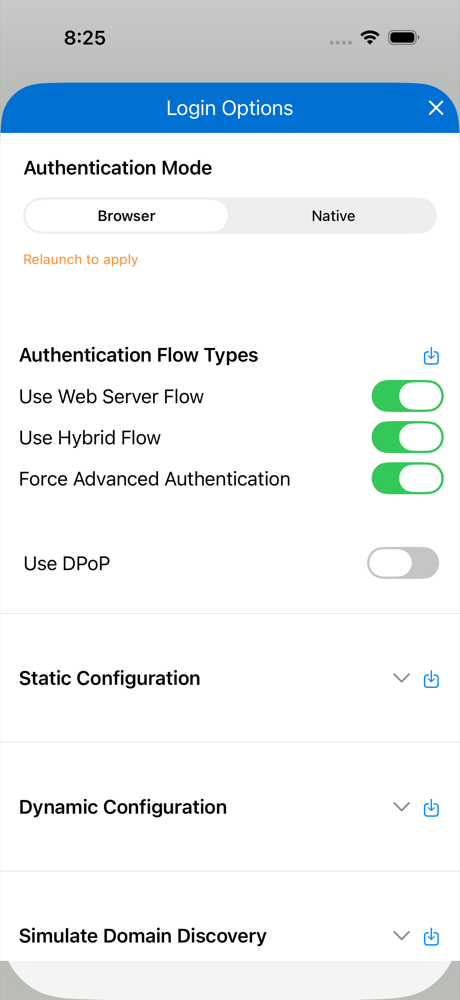
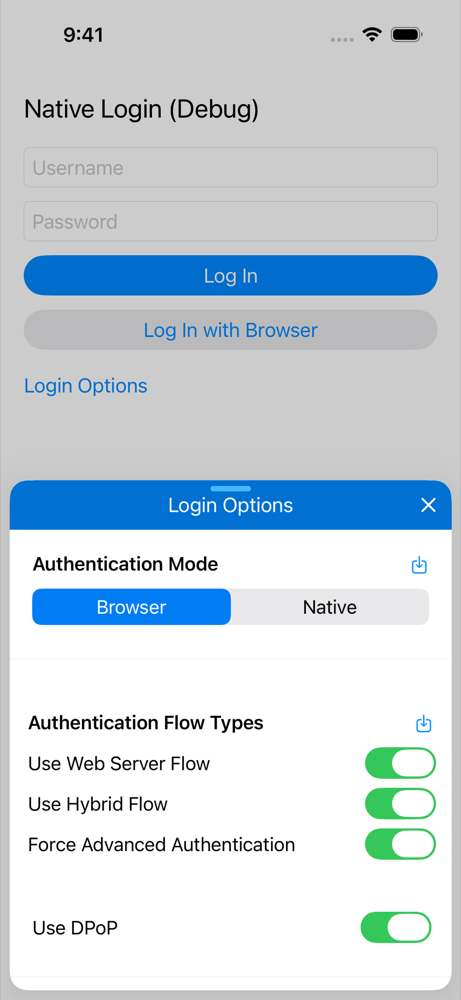
@W-24600763: Document the debug Native Login mode
docs/auth token lifecycle section, AuthFlowTester README and screenshots, and a RestAPIExplorer README explaining how to try Native Login from Login Options.

diff --git a/native/SampleApps/AuthFlowTester/README.md b/native/SampleApps/AuthFlowTester/README.md
@@ -268,8 +268,8 @@ helper.
 | `test_givenCommunityNoDPoP_whenLoginViaInAppWebView_thenTokenTypeIsBearer` | Bearer token via the in-app WebView auth surface |
 
 #### NativeLoginTests
-Covers Native Login (`NativeLoginManager`) against the community login host, with the app's own
-SwiftUI native form (username, password, Cancel, Login Options and "Use Browser" fallback). Two
+Covers Native Login (`NativeLoginManager`) against the community login host, with the SDK's debug
+Native Login form (username, password, Cancel, Login Options and "Log In with Browser" fallback). Two
 headless ECAs are used: `eca_jwt_headless` accepts but does not require DPoP, and
 `eca_jwt_dpop_headless` requires it (`/authorize` without `dpop_jkt` is rejected with HTTP 400
 `invalid_request`). The four-case matrix has explicit expectations, independent of the ECA name:
@@ -285,33 +285,35 @@ Successful sessions are checked for the `NL`, `A5` and `L5` feature markers (plu
 DPoP is on, and no `B` markers), then a REST call, a revoke/refresh cycle, a cold restart and another
 refresh.
 
-Native Login cannot be turned off inside a running process, so the authentication mode is chosen per
-launch. Tests launch with `--authenticationMode=native`; a user switches mode with the
-Authentication Mode picker at the top of the SDK's Login Options screen (debug builds only; reached
-from the web login screen, the developer menu, or the Login Options button on the native form) and
-relaunches. AuthFlowTester injects the picker and the Native Login client settings (Client ID,
-Native Callback URL, Community Login URL, hybrid, DPoP) through `LoginOptionsViewController.customization`;
-in Native mode the SDK's browser-only sections are hidden. Settings take effect on Apply; tests fill
-them with the JSON import button.
+Native Login is an SDK debug feature, not AuthFlowTester code: the **Authentication Mode** picker
+(Browser / Native) at the top of the SDK's Login Options screen (debug builds with developer support;
+reached from the web login screen, the developer menu, or the Login Options button on the native
+form) selects it, with its own client settings (Client ID, Native Callback URL, Community Login URL,
+Use DPoP, Use Hybrid). In Native mode the browser-only sections are hidden. Settings are saved as
+edited, apart from the browser configuration, and closing Login Options restarts authentication.
+They are kept in `SalesforceManager.shared.debugLoginSettings`. Tests launch with
+`--nativeLoginConfig=<json>` and change apps or DPoP mid-run with the JSON import button.
 
 | Test | Notes |
 |------|-------|
 | `testNativeLoginConfigIsValid` | The `nativeLogin` entry resolves (host, user, both apps, keys, HTTPS redirect URIs). Fails, never skips, when the entry is malformed |
 | `test_givenOptionalEca_whenDPoPOff_thenBearer` | Matrix case 1 |
 | `test_givenOptionalEca_whenDPoPOn_thenDPoP` | Matrix case 2 |
-| `test_givenRequiredEca_whenDPoPOff_thenRejectedNoAccount` | Matrix case 3; failure result and redacted diagnostics on the form; main page never loads |
+| `test_givenRequiredEca_whenDPoPOff_thenRejectedNoAccount` | Matrix case 3; HTTP 400 `invalid_request` naming the missing `dpop_jkt` (not `invalid_grant`) on the form, redacted diagnostics, main page never loads |
 | `test_givenRequiredEca_whenDPoPOn_thenDPoP` | Matrix case 4 |
 | `test_givenRejection_whenRetryWithDPoP_thenSucceeds` | After a rejection, turning DPoP on and retrying succeeds |
 | `test_givenLoggedInUser_whenCancelAddUserForm_thenStaysLoggedIn` | Cancel is offered with an existing account and returns to it |
 | `test_givenNoUser_whenNativeFormShown_thenNoCancelButton` | No Cancel without an account |
-| `test_givenNativeForm_whenBrowserFallback_thenWebLoginShown` | "Use Browser" hands off to web authentication |
+| `test_givenNativeForm_whenBrowserFallback_thenWebLoginShown` | "Log In with Browser" hands off to web authentication |
 | `test_givenSameUser_whenDPoPThenBearerReauth_thenBearerWithoutDPoPMarker` | Same user, DPoP login, logout, Bearer login: no `DP` carry-over, also after a restart |
 | `test_givenNativeForm_whenBackgroundedAndReactivated_thenLoginStillWorks` | Home and reactivate mid-form |
 | `test_givenFailedLogin_whenDiagnosticsShown_thenRedacted` | Diagnostics name the authorize stage and contain no tokens, nonces, codes or passwords |
 
-The form shows redacted diagnostics (stage, whether a DPoP proof was sent, nonce challenges, retries
-and HTTP status). `NativeLoginResult` carries no HTTP status, so this is the only rejection detail
-available; the diagnostics are produced by an app-side `SFNetwork` metrics observer.
+The form shows redacted diagnostics for each authorize/token attempt (stage, HTTP status, OAuth error
+and description, whether a DPoP proof was sent, nonce challenges and retries), recorded by the SDK's
+internal `NativeLoginDiagnostics` in debug builds. `NativeLoginResult` carries no HTTP status, so the
+failure detail adds the last failed attempt, for example
+`unknownError (HTTP 400 invalid_request: ...dpop_jkt...)`.
 
 Requires a `nativeLogin` entry in `ui_test_config.json` (see Configuration below); skips cleanly
 via `XCTSkip` when the entry is absent.
@@ -334,7 +336,8 @@ Tests can pass extra launch arguments through `extraLaunchArguments` (or `restar
 
 | Argument | Effect |
 |----------|--------|
-| `--authenticationMode=native\|browser` | Debug/UI-test-only. Selects the authentication mode for this launch; without it the mode saved from Login Options is used. `native` registers the app's native login form for each scene before login starts. Used by `NativeLoginTests`. |
+| `--nativeLoginConfig=<json>` | Debug-only. Applies a Native Login configuration to `SalesforceManager.shared.debugLoginSettings` after the UI-test reset, with the JSON keys shared with Android and the Login Options import: `authenticationMode` (`native` or `browser`), `consumerKey`, `redirectUri`, `communityUrl`, `useDPoP`, `useHybridFlow`. Absent keys keep their saved value; an invalid configuration is logged and ignored. Used by `NativeLoginTests`. |
+| `--authenticationMode=native\|browser` | Debug-only. Selects the authentication mode (applied after `--nativeLoginConfig`); `native` needs a complete saved configuration. Without either argument the settings saved from Login Options are used. |
 | `--captureTokenRequestUserAgent` | Debug/UI-test-only `SFNetwork` metrics observer. The app records the User-Agent and URL (scheme, host, path) of the last `/services/oauth2/token` request and shows them as `Last Token Request User Agent` and `Last Token Request URL`. Used by `RTRLoginTests` and `CommunityLoginTests`. |
 
 ### Identity request diagnostics (`IDENTITY_ATTEMPTS`)

diff --git a/docs/auth/token-lifecycle.md b/docs/auth/token-lifecycle.md
@@ -88,6 +88,37 @@ web flow. It transfers no native identifier, keypair, nonce or proof. The existi
 flow determines its own DPoP state; cancellation can return to a fresh Native Login. The
 normal account-completion path records token type and feature markers for native sessions too.
 
+### 1.3 Debug Native Login mode
+
+Debug builds can switch any app without its own Native Login to Native Login from the developer
+support **Login Options** screen (**Authentication Mode**: Browser / Native). The choice and its
+External Client App (consumer key, HTTPS callback URL, community URL with path, DPoP, hybrid)
+persist in `SalesforceManager.debugLoginSettings` (`NativeLoginDebugSettings`, its own
+`UserDefaults` suite), apart from the boot config and the global `usesDPoP` /
+`useHybridAuthentication` flags. They are inert unless `isDevSupportEnabled` is true and the app
+did not call `useNativeLogin` (`appRegisteredNativeLogin`). `apply(json:)` takes the same JSON keys
+as Android; `resetForUITesting` clears them.
+
+- **Routing.** `applyDebugNativeLoginSettings` runs at the end of `initializeSDK` and before each
+  auth request is built (`authenticateWithCompletion:` and Login Options restarts). In Native mode
+  with a complete configuration it registers `SFSDKDebugNativeLoginViewController` and a
+  `NativeLoginManagerInternal` for the debug config, so the regular native routing
+  (`nativeLoginEnabled`) presents the SDK's debug form; otherwise it unregisters them. Running at
+  `initializeSDK` keeps the `NL` marker of a restored native session, like an app calling
+  `useNativeLogin` at launch.
+- **DPoP and hybrid.** The native auth request carries the debug `useDPoP` choice as its
+  `useDPoP` override (see 1.1), and the manager's `useHybridAuthenticationOverride` selects the
+  token grant. The browser values are untouched.
+- **Restart.** Closing Login Options rebuilds the scene's request through
+  `authRequestAfterLoginOptionsChangeForSession:`, native or browser per the new settings. A
+  browser request built after a native one uses the selected login host, not the community URL.
+- **Fallback.** **Log In with Browser** calls `fallbackToWebAuthentication()`; the browser login
+  uses the boot config and browser options.
+- **Diagnostics.** In debug builds `sendAuthenticationRequest` records each authorize/token
+  attempt in the internal `NativeLoginDiagnostics` (`native-login` log category): stage, HTTP
+  status, OAuth error and truncated description, whether a proof was sent and a nonce received,
+  and the retry count. Nonce values, proofs, codes, verifiers, tokens and passwords are never kept.
+
 ---
 
 ## 2. Token Refresh

diff --git a/native/SampleApps/RestAPIExplorer/README.md b/native/SampleApps/RestAPIExplorer/README.md
@@ -1,0 +1,15 @@
+# RestAPIExplorer
+
+A native iOS sample app for the Salesforce Mobile SDK that lets you build and send Salesforce REST API requests and inspect the responses.
+
+## Trying Native Login
+
+RestAPIExplorer does not register a native login of its own. In debug builds (where `isDevSupportEnabled` is on), you can still try Native Login through the SDK's debug Login Options:
+
+1. On the login screen, open **Login Options** from the menu (also available in the Dev Support menu).
+2. Under **Authentication Mode**, select **Native**.
+3. Enter the **Client ID**, **Native Callback URL** and **Community Login URL** of an External Client App that has Native Login (headless username-password flow) enabled. You can instead use **Import Native Login Configuration** to paste a JSON object with `consumerKey`, `redirectUri`, `communityUrl`, `useDPoP`, `useHybridFlow` and `authenticationMode`.
+4. Optionally turn on **Use DPoP** or **Use Hybrid Authentication**. These apply to Native Login only and do not change the browser login options.
+5. Close Login Options. Authentication restarts and shows the SDK's debug Native Login form. **Log In with Browser** falls back to the regular browser login.
+
+Switching back to **Browser** mode restarts authentication with the regular browser login. The Native Login settings are stored separately from the browser login configuration. See [docs/auth/token-lifecycle.md](../../../docs/auth/token-lifecycle.md) ("Debug Native Login mode") for details.

diff --git a/docs/auth/README.md b/docs/auth/README.md
@@ -7,4 +7,4 @@ SDK.
 
 | Document | Purpose |
 |---|---|
-| [`token-lifecycle.md`](token-lifecycle.md) | Web/native code exchange, native ownership and fallback, token refresh, DPoP/UI-session request-path authentication, nonce handling, Refresh Token Rotation, and REST replay concurrency. |
+| [`token-lifecycle.md`](token-lifecycle.md) | Web/native code exchange, native ownership and fallback, the debug Native Login mode, token refresh, DPoP/UI-session request-path authentication, nonce handling, Refresh Token Rotation, and REST replay concurrency. |
